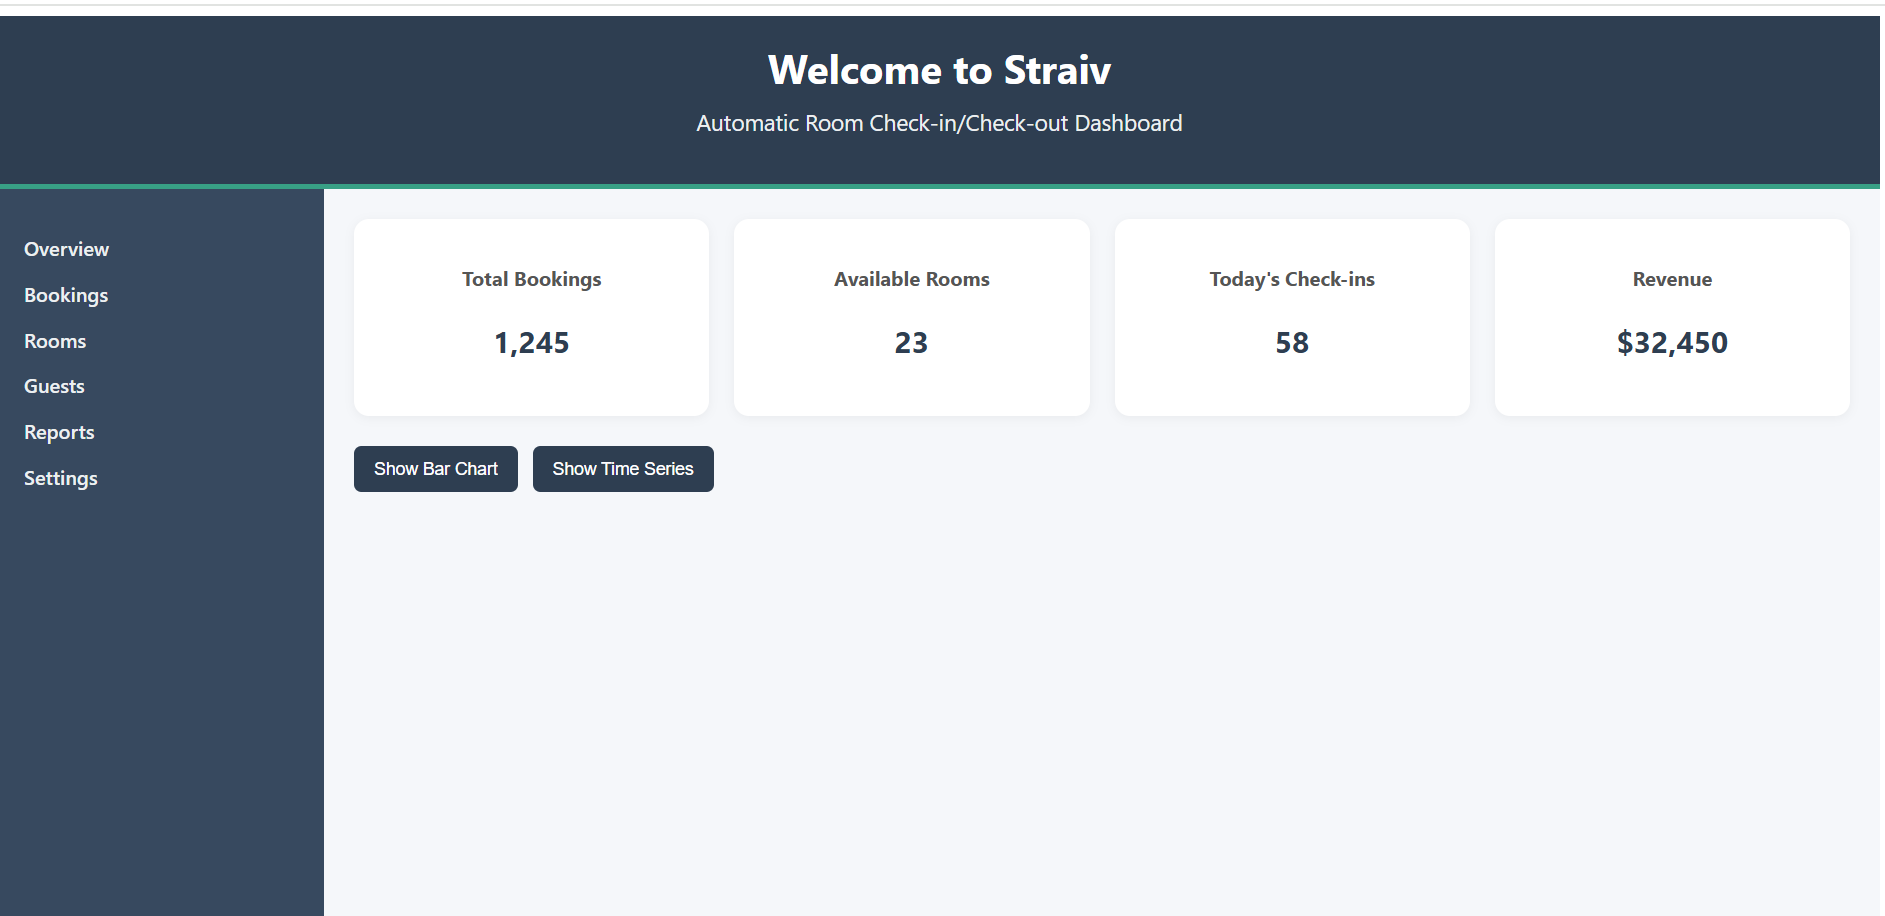
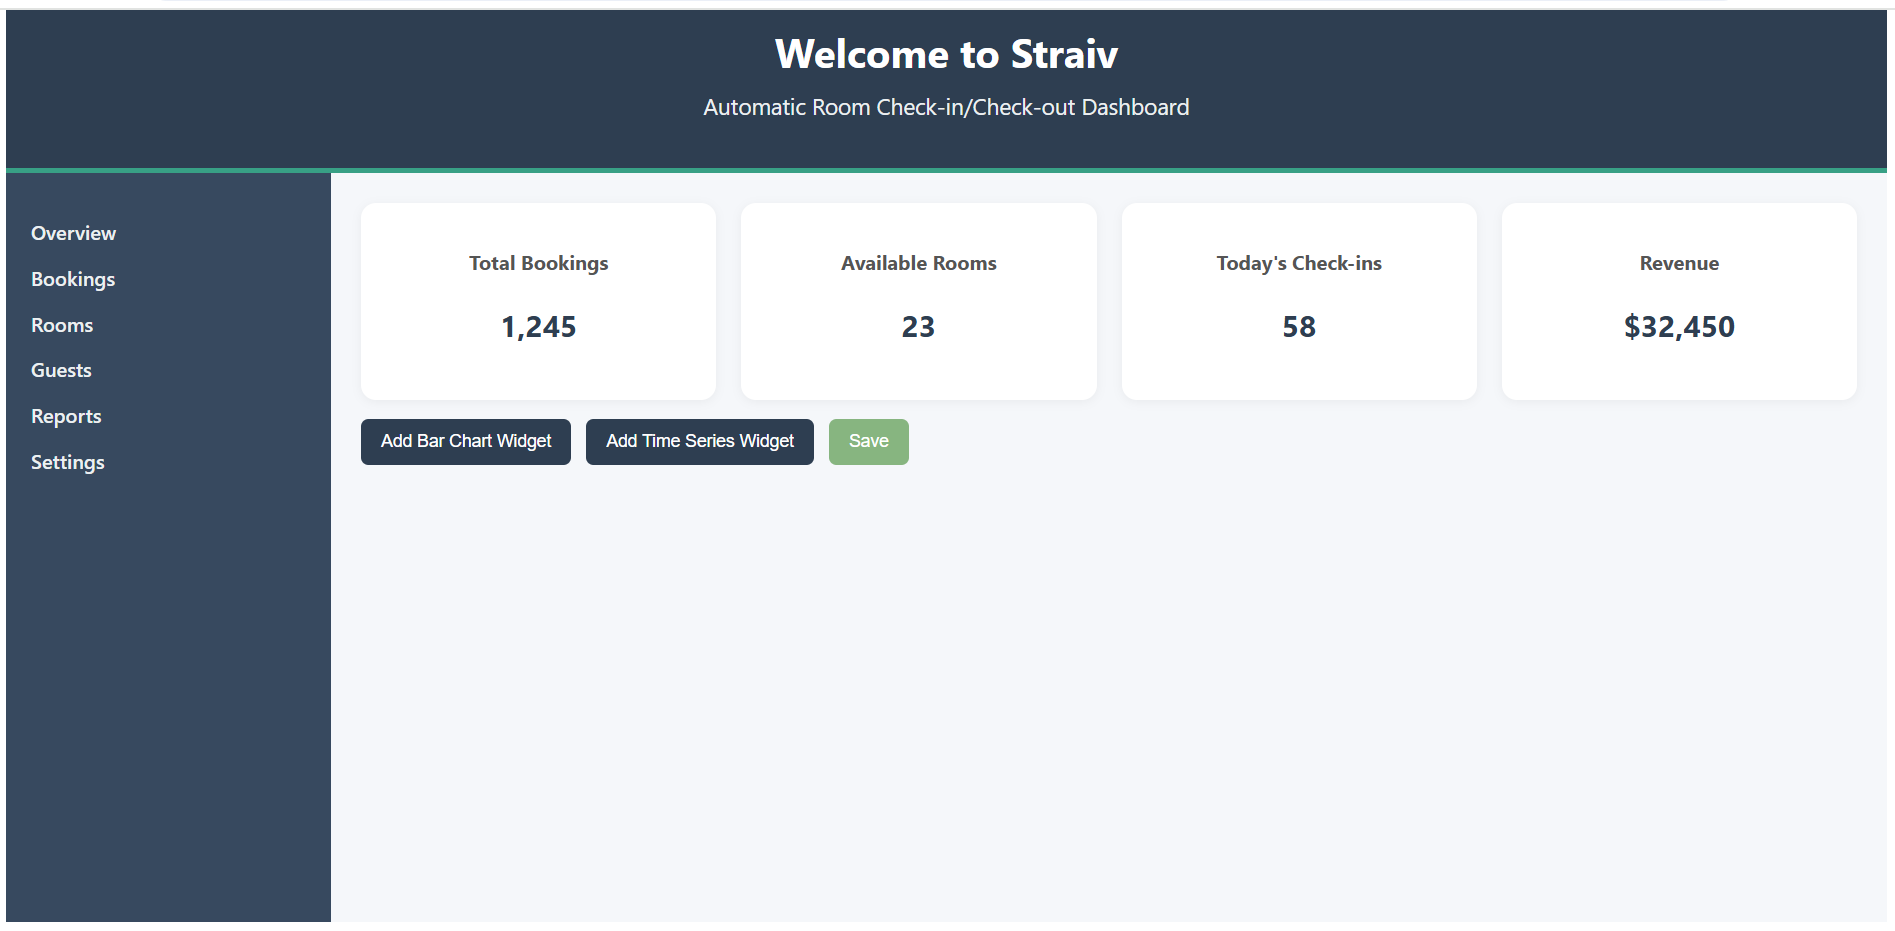
Updated Screenshots as per updated UI. Updated README file.

diff --git a/README.md b/README.md
@@ -41,41 +41,43 @@ This is a modular admin dashboard built using **Angular 19** with **standalone c
 ```
 src/
 └── app/
-├── main/
-│ ├── admin/
-│ │ ├── components/
-│ │ │ ├── admin-dashboard/
-│ │ │ ├── bar-chart-widget/
-│ │ │ └── time-series-chart-widget/
-│ │ ├── models/
-│ │ │ ├── dashboard.ts
-│ │ │ └── enums.ts
-│ │ └── services/
-│ │ ├── chartdata.service.ts
-│ │ └── dashboard.service.ts
-│ ├── core/
-│ │ ├── interceptors/
-│ │ │ ├── auth.interceptor.ts
-│ │ │ └── auth.interceptor.spec.ts
-│ │ └── services/
-│ │ ├── logger.service.ts
-│ │ └── logger.service.spec.ts
-│ └── shared/
-│ ├── components/
-│ │ └── chart-widget/
-│ │ ├── chart-widget.component.html
-│ │ └── chart-widget.component.ts
-│ ├── models/
-│ │ └── enums.ts
-│ ├── pipes/
-│ └── services/
-│ ├── toastr-message-wrapper.service.ts
-│ └── toastr-message-wrapper.service.spec.ts
+    ├── main/
+    │   ├── admin/
+    │   │   ├── components/
+    │   │   │   ├── admin-dashboard/             # Admin dashboard component
+    │   │   │   ├── bar-chart-widget/            # Bar chart widget component
+    │   │   │   └── time-series-chart-widget/    # Time series chart widget component
+    │   │   ├── models/                          
+    │   │   │   ├── dashboard.ts                 # Interfaces and types related to dashboard
+    │   │   │   └── enums.ts                     # Enum definitions for admin section
+    │   │   └── services/
+    │   │       ├── chartdata.service.ts         # Service for fetching chart data
+    │   │       └── dashboard.service.ts         # Business logic for dashboard
+    │   └── core/
+    │       ├── interceptors/
+    │       │   ├── auth.interceptor.ts          # Auth token interceptor
+    │       │   └── auth.interceptor.spec.ts     # Unit tests for auth interceptor
+    │       └── services/
+    │           ├── logger.service.ts            # Logging service
+    │           └── logger.service.spec.ts       # Unit tests for logger service
+    ├── layout/                                  # Layout components like header/side panel/footer
+    └── shared/
+        ├── components/
+        │   └── chart-widget/                    # Shared chart widget component
+        │       ├── chart-widget.component.html
+        │       └── chart-widget.component.ts
+        ├── models/
+        │   └── enums.ts                         # Shared enums used across app
+        ├── pipes/                               # (Expected) shared pipes
+        └── services/
+            ├── toastr-message-wrapper.service.ts     # Toastr notification service
+            └── toastr-message-wrapper.service.spec.ts
 ├── app.component.ts
-├── app.component.spec.ts
 ├── app.component.html
-├── app.routes.ts
-└── app.config.ts
+├── app.component.spec.ts
+├── app.config.ts                                # Application-wide config
+└── index.html                                   # App entry point
+
 ```
 
 ---
@@ -111,8 +113,8 @@ To execute unit tests with the [Karma](https://karma-runner.github.io) test runn
 ng test
 ```
 
-![Unit Test Cases](screenshots/6.PMS-TestCases.PNG)
-![Coverage Report](screenshots/7.UTCCoverage.PNG)
+![Unit Test Cases](screenshots/7.PMS-TestCases.PNG)
+![Coverage Report](screenshots/8.UTCCoverage.PNG)
 
 ---
 
@@ -123,5 +125,7 @@ ng test
 ![Check-in Count by Weekday](screenshots/3.CheckInChart.png)
 ![Daily Check-in over the past 14days](screenshots/4.TimeSerieChart.png)
 ![Removed Widget](screenshots/5.RemovedWidget.png)
+![Dashboard Layout Save](screenshots/6.DashboardLayoutSave.png)
+
 
 ```
